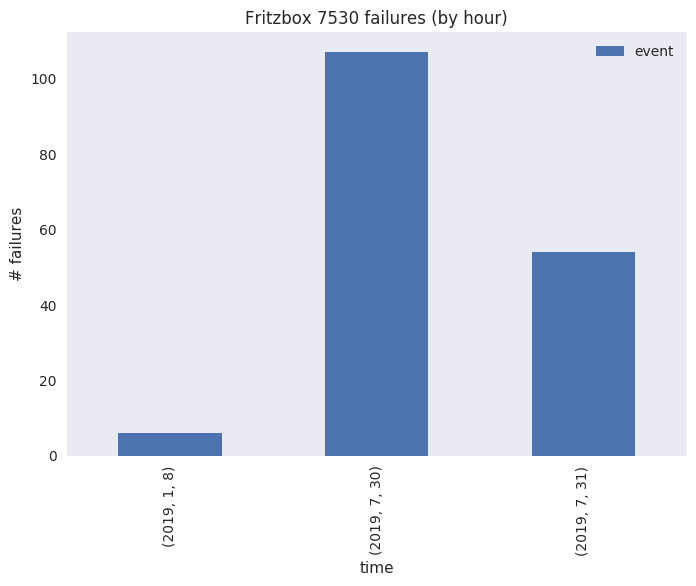
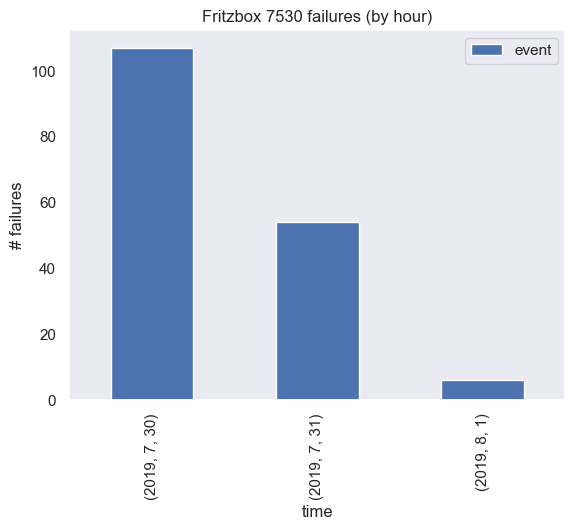
Fixed timestamp format parsing

diff --git a/statistics.py b/statistics.py
@@ -1,6 +1,7 @@
 import glob
 import re
 import pandas as pd
+from datetime import datetime
 
 
 class FritzStats:
@@ -26,15 +27,17 @@ class FritzStats:
                 for line in f:
                     try:
                         ts_str = regex.search(line).group(1)  # timestamp when the event occurred
-                        timestamp_data.append(pd.to_datetime(ts_str, infer_datetime_format=True))
-                    except AttributeError:
+                        timestamp = datetime.strptime(ts_str, "%d.%m.%y %H:%M:%S")  # format "30.07.19 23:59:12"
+                        timestamp_data.append(timestamp)
+                    except AttributeError as e:
                         pass
+
         df = pd.DataFrame(timestamp_data, columns=["timestamp"])
         if df.empty:
             return df
 
         df["event"] = 1
         df = df.set_index("timestamp")
-        df.sort_index(inplace=True)
+        #df.sort_index(inplace=True)
 
         return df

diff --git a/fritz.py b/fritz.py
@@ -55,7 +55,7 @@ def main():
     elif args.action == "stats":
         fritz = FritzStats(args.logdir, args.title)
         downtime_df = fritz.get_downtime()
-
+        #print(downtime_df.tail(1000))
         if not (downtime_df is None or downtime_df.empty):
 
             sns.set(style="dark")
